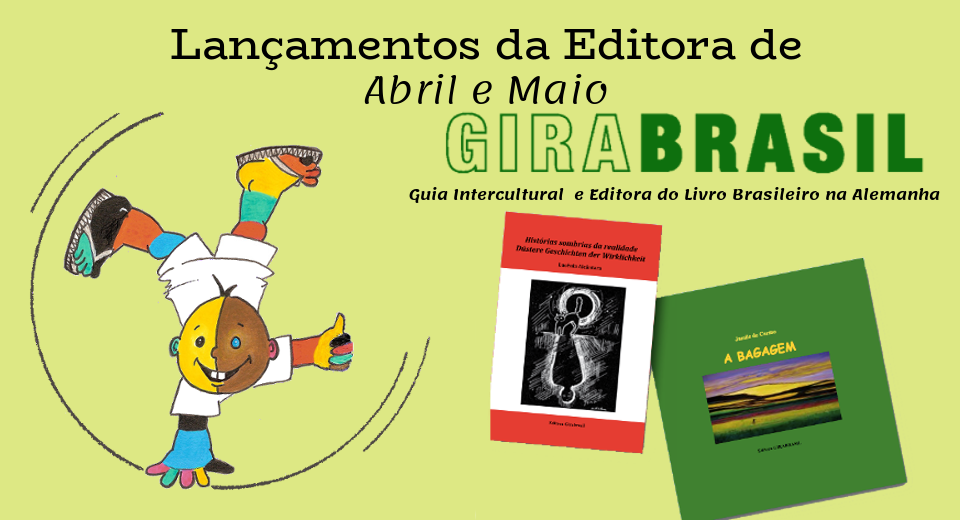
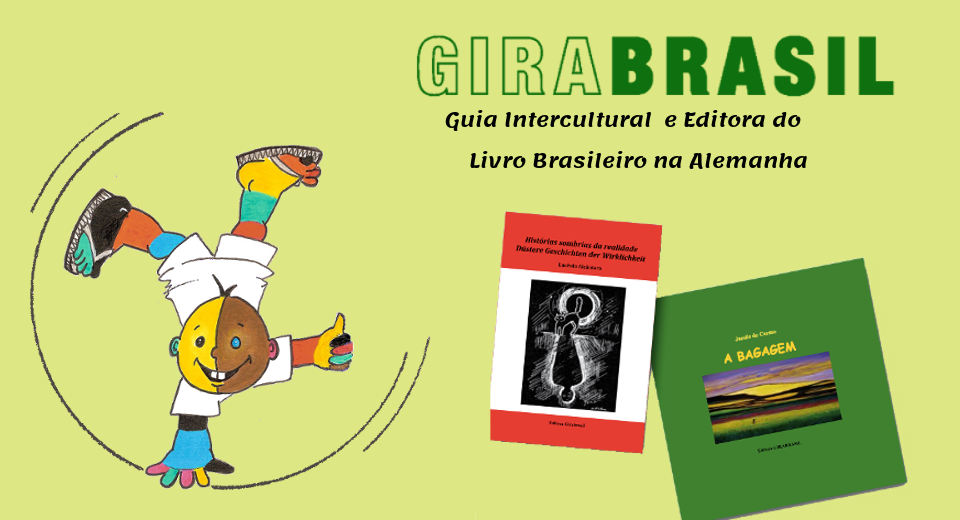
atualização carrossel do índex

Changed region(s): [[0.1562, 0.0308, 0.9688, 0.3385], [0.4062, 0.3692, 1.0, 0.4]]

diff --git a/pt-br/index-carousel.html b/pt-br/index-carousel.html
@@ -251,6 +251,13 @@
                             <div class="carousel-inner img-responsive" role="listbox">
                                 <div class="item active">
 
+                                    <img src="../img/carousel-index/feira-leich.png" class="img-responsive" width="80%" height="80%" alt="editora girabrasil">
+                                    <div class="carousel-caption">
+                                        <button type="button"  class="btn btn-default btn-xs" style="margin-left:100%; margin-top:1100%" ><a href="feiras/1-exp-int-casa-brasil.html">Saiba mais</a></button> 
+                                    </div>
+                                </div>
+                                
+                                <div class="item">
                                     <img src="../img/carousel-index/bem-vindo-site.png" class="img-responsive" width="80%" height="80%" alt="editora girabrasil">
                                     <div class="carousel-caption">
                                     </div>
